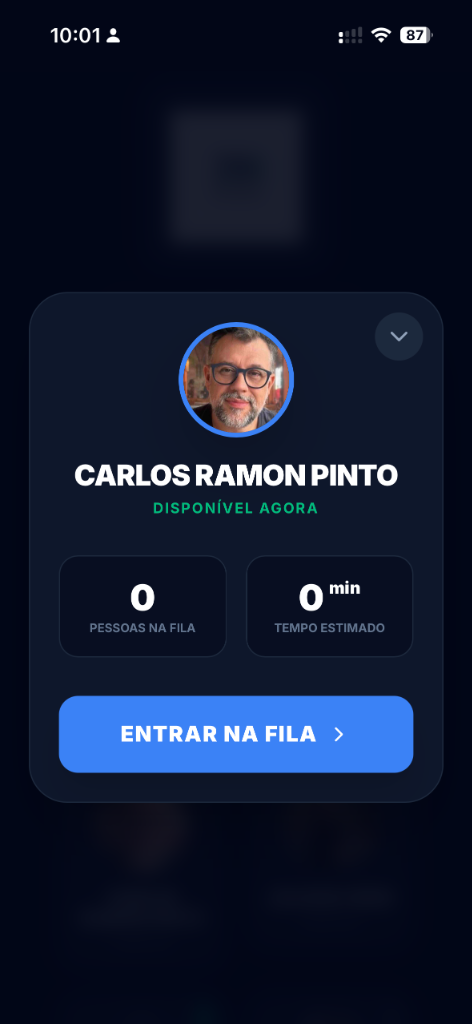
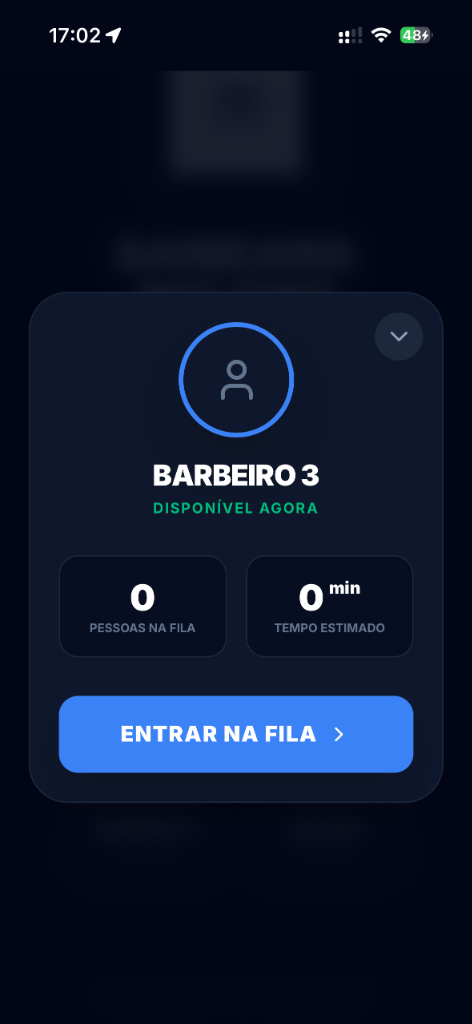
docs: replace tutorial images with clean versions and remove whatsapp section

diff --git a/app/tutoriais/page.tsx b/app/tutoriais/page.tsx
@@ -566,38 +566,8 @@ const getTutorialContent = (texts: any, tenant: any) => [
         tip: 'Produtos parados são dinheiro parado. Use os relatórios de movimentação para identificar itens de baixa saída e crie promoções para girar seu estoque.'
     },
     {
-        id: 'whatsapp',
-        title: '11 - Automação WhatsApp',
-        icon: MessageSquare,
-        images: ['/tutorials/whatsapp-1.png', '/tutorials/whatsapp-2.png'],
-        description: 'Reduza faltas e fidelize clientes com mensagens automáticas enviadas diretamente para o celular deles.',
-        steps: [
-            {
-                title: 'Ativação e Agendamento',
-                content: 'O sistema envia automaticamente um convite via WhatsApp assim que você cria um agendamento, contendo data, hora e link de confirmação.',
-                imageIndex: 0
-            },
-            {
-                title: 'Lembretes Inteligentes',
-                content: 'Configure o tempo de antecedência (ex: 2 horas antes) para o sistema disparar um lembrete automático, garantindo que o cliente não esqueça o compromisso.',
-                imageIndex: 1
-            },
-            {
-                title: 'Notificações de Fila',
-                content: 'Clientes que entram na fila virtual recebem um link via WhatsApp onde podem acompanhar a posição deles em tempo real pelo celular.',
-                imageIndex: 0
-            },
-            {
-                title: 'Aviso "Sua Vez Chegou"',
-                content: 'Ao chamar o próximo cliente no painel, o sistema envia opcionalmente uma mensagem avisando que o profissional já o aguarda na cadeira.',
-                imageIndex: 1
-            }
-        ],
-        tip: 'Lembretes automáticos reduzem o "No-show" (faltas) em até 60%, protegendo seu faturamento.'
-    },
-    {
         id: 'pwa',
-        title: '12 - App do Cliente (PWA)',
+        title: '11 - App do Cliente (PWA)',
         icon: Zap,
         images: ['/tutorials/pwa-1.png', '/tutorials/pwa-2.png', '/tutorials/pwa-3.png'],
         description: 'Ofereça uma experiência premium. Seus clientes agendam em segundos, sem precisar baixar nada na App Store ou Play Store.',
@@ -622,7 +592,7 @@ const getTutorialContent = (texts: any, tenant: any) => [
     },
     {
         id: 'pwa-ios',
-        title: '13 - Instalando no iPhone (iOS)',
+        title: '12 - Instalando no iPhone (iOS)',
         icon: Zap,
         images: [
             '/tutorials/pwa-ios-1.png',
@@ -657,7 +627,7 @@ const getTutorialContent = (texts: any, tenant: any) => [
     },
     {
         id: 'fila-cliente',
-        title: '14 - Como Entrar na Fila (Cliente)',
+        title: '13 - Como Entrar na Fila (Cliente)',
         icon: UserCheck,
         images: [
             '/tutorials/queue-client-1.png',
@@ -698,7 +668,7 @@ const getTutorialContent = (texts: any, tenant: any) => [
     },
     {
         id: 'agendamento-cliente',
-        title: '15 - Como Agendar (Cliente)',
+        title: '14 - Como Agendar (Cliente)',
         icon: Calendar,
         images: [
             '/tutorials/appt-client-1.png',
